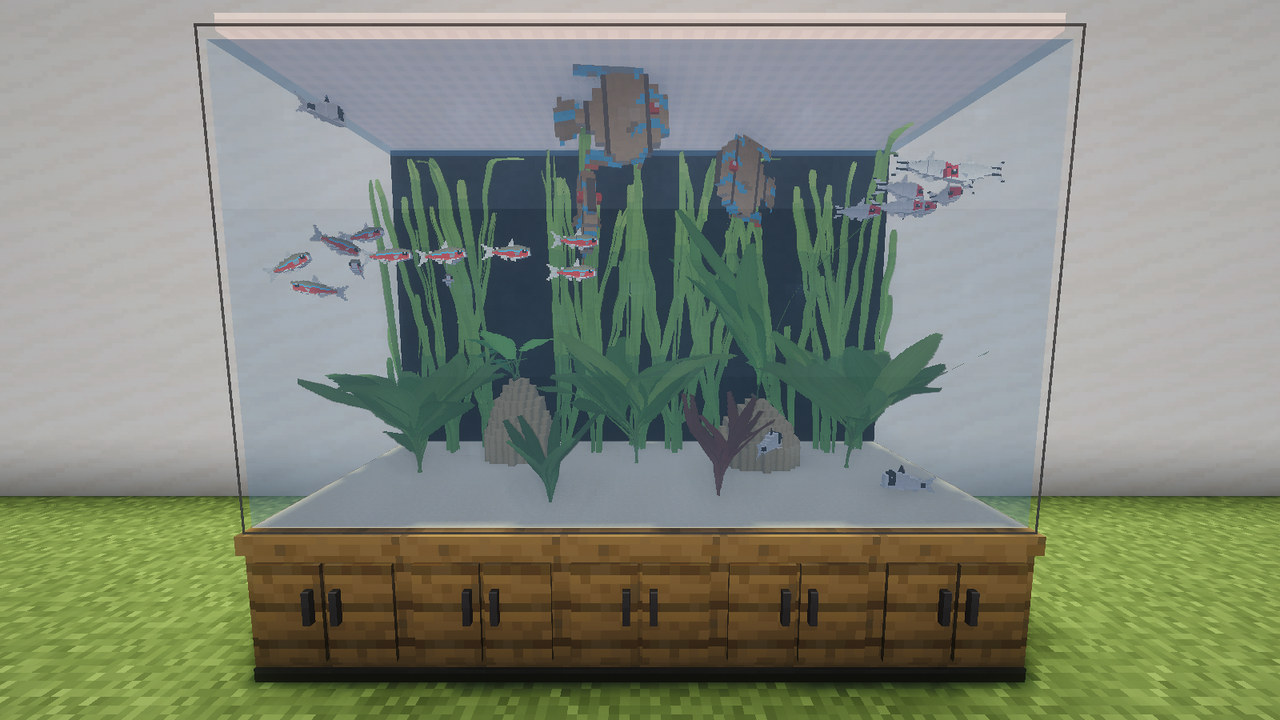
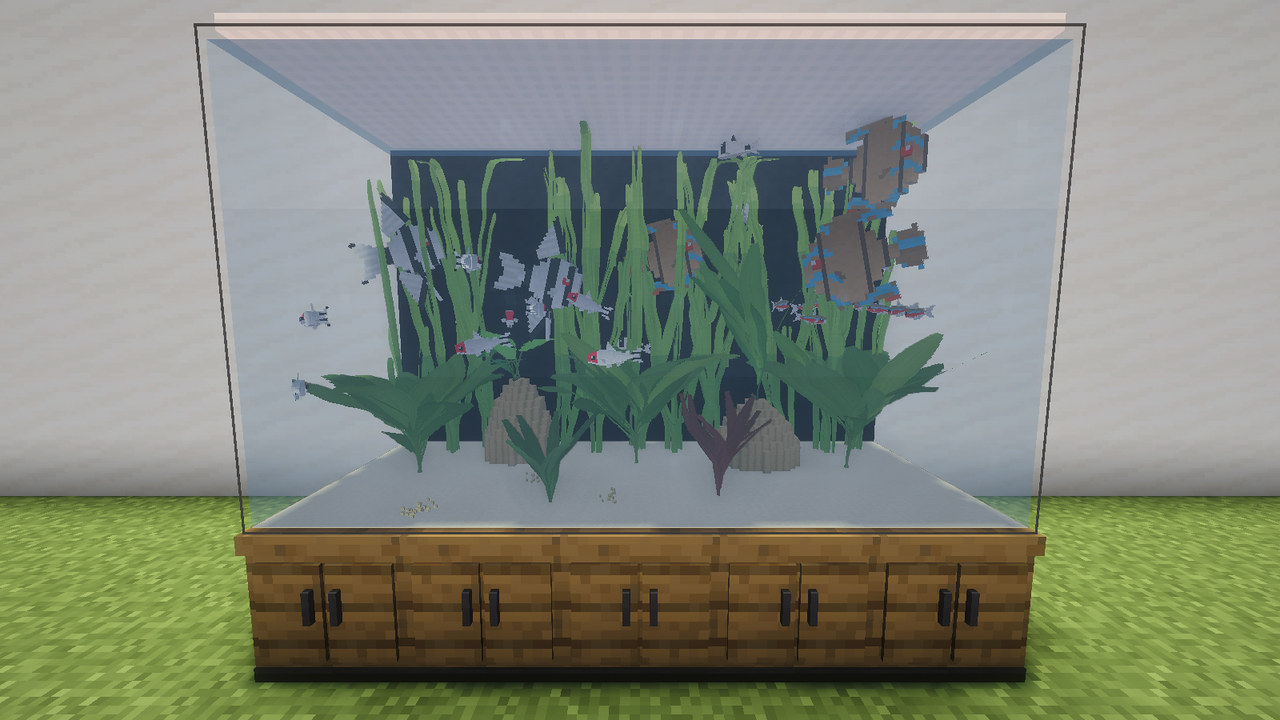
Media: the angelfish pair back in the Amazon tank, its still, shader still, GIF and WebP taken again

diff --git a/src/dev/java/org/overengineer/bettacraft/client/DevClientSmokeReadme.java b/src/dev/java/org/overengineer/bettacraft/client/DevClientSmokeReadme.java
@@ -383,6 +383,8 @@ final class DevClientSmokeReadme {
         InteriorPlants.settleTint(level, am);
         RandomSource fr = RandomSource.create(43);
         for (int i = 0; i < 3; i++) fish(level, am, TankmateSpecies.DISCUS, TankmateGenes.wild(TankmateSpecies.DISCUS), i % 2 == 0, fr);
+        // 1.33.3: the angelfish pair is back (their dorsal fins no longer stick out of the water at the surface)
+        for (int i = 0; i < 2; i++) fish(level, am, TankmateSpecies.ANGELFISH, TankmateGenes.wild(TankmateSpecies.ANGELFISH), i % 2 == 0, fr);
         for (int i = 0; i < 8; i++) fish(level, am, TankmateSpecies.RUMMY_NOSE_TETRA, TankmateGenes.wild(TankmateSpecies.RUMMY_NOSE_TETRA), i % 2 == 0, fr);
         for (int i = 0; i < 12; i++) fish(level, am, TankmateSpecies.CARDINAL_TETRA, TankmateGenes.wild(TankmateSpecies.CARDINAL_TETRA), i % 2 == 0, fr);
         for (int i = 0; i < 3; i++) fish(level, am, TankmateSpecies.PANDA_CORY, TankmateGenes.wild(TankmateSpecies.PANDA_CORY), i % 2 == 0, fr);

diff --git a/README.md b/README.md
@@ -18,7 +18,7 @@ run filters, lights, CO2 and reef dosing, and breed new colours with real Mendel
     <td><img src="docs/images/bettacraft-plant-growth.gif" alt="A time lapse: cuttings grow into Vallisneria, Rotala, Ludwigia, a sword plant and a Monte Carlo carpet"></td>
   </tr>
   <tr>
-    <td><img src="docs/images/bettacraft-amazon-tank-swimming.gif" alt="An Amazon tank: discus, rummy nose and cardinal tetras between sword plants"></td>
+    <td><img src="docs/images/bettacraft-amazon-tank-swimming.gif" alt="An Amazon tank: discus, angelfish, rummy nose and cardinal tetras between sword plants"></td>
     <td><img src="docs/images/bettacraft-shrimp-tank-crawling.gif" alt="A shrimp tank: Neocaridina in every colour, bee shrimp, nerites and a dwarf crayfish"></td>
   </tr>
   <tr>

diff --git a/docs/description.md b/docs/description.md
@@ -82,7 +82,7 @@ the Mods 10, and fine on its own.
   guard their young.
 - **Water animals of other mods** live in the aquariums too; whales, bosses and hostile mobs are refused with a reason.
 
-![An Amazon tank: discus, rummy nose and cardinal tetras over sand and roots between sword plants and Vallisneria](images/bettacraft-amazon-tank-swimming.gif)
+![An Amazon tank: discus, angelfish, rummy nose and cardinal tetras over sand and roots between sword plants and Vallisneria](images/bettacraft-amazon-tank-swimming.gif)
 
 ## Salt water, reef tanks and seahorses
 
